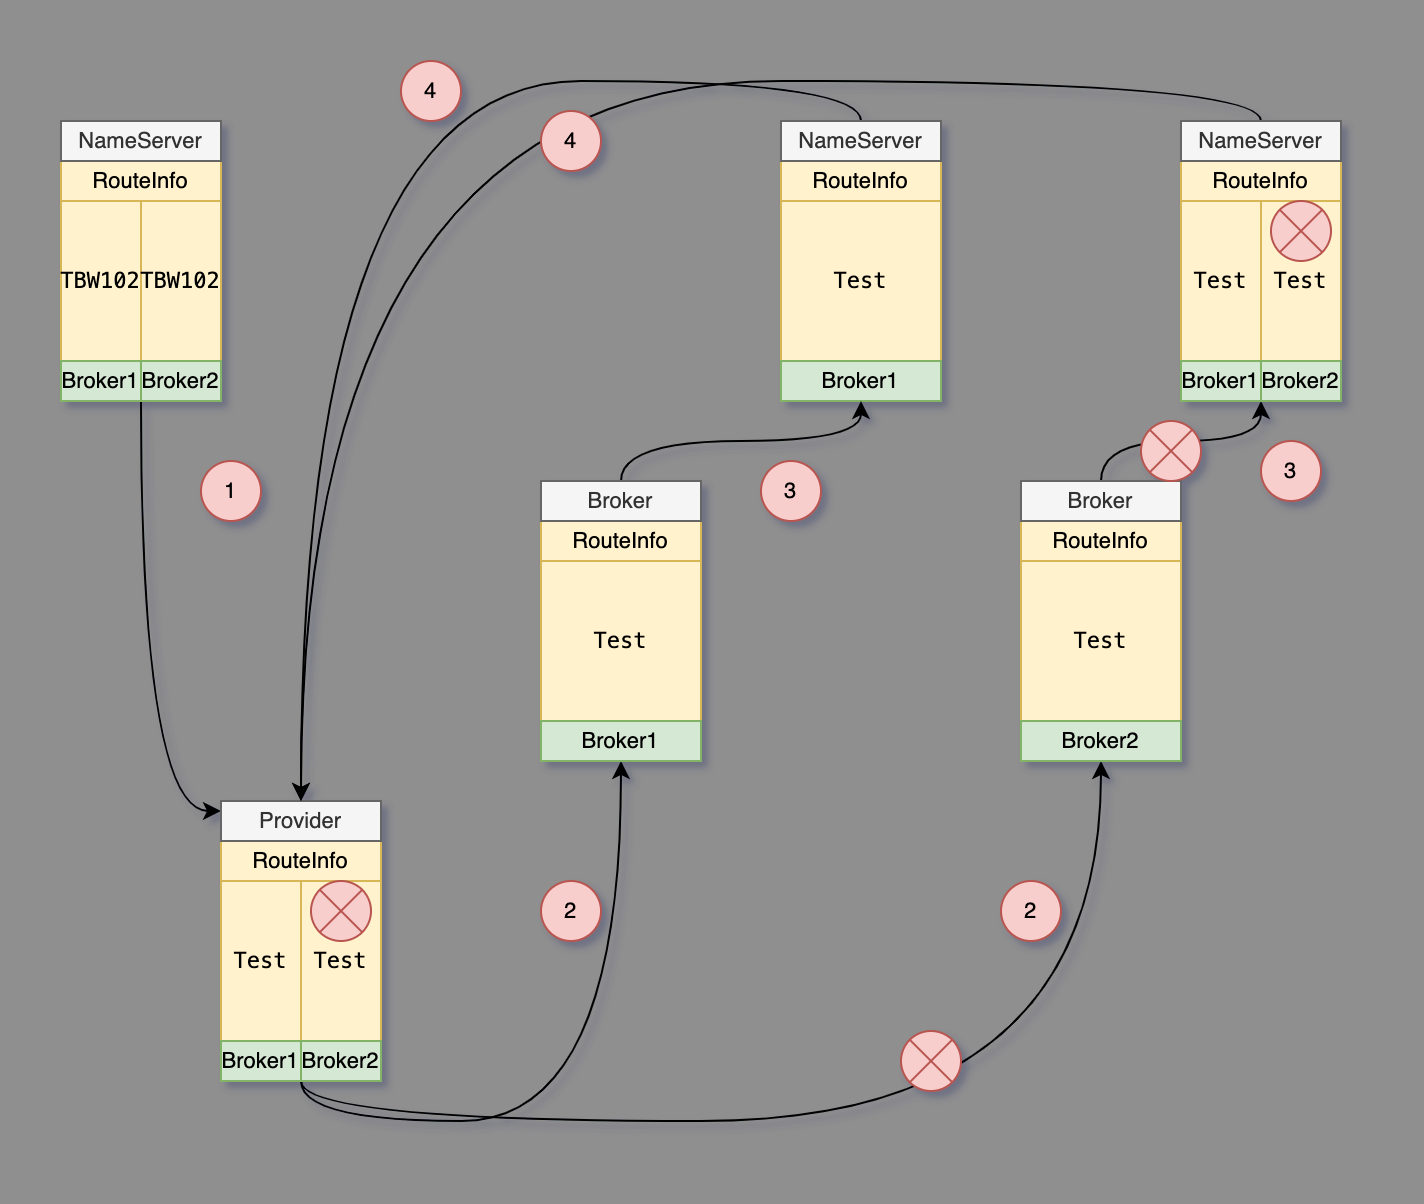
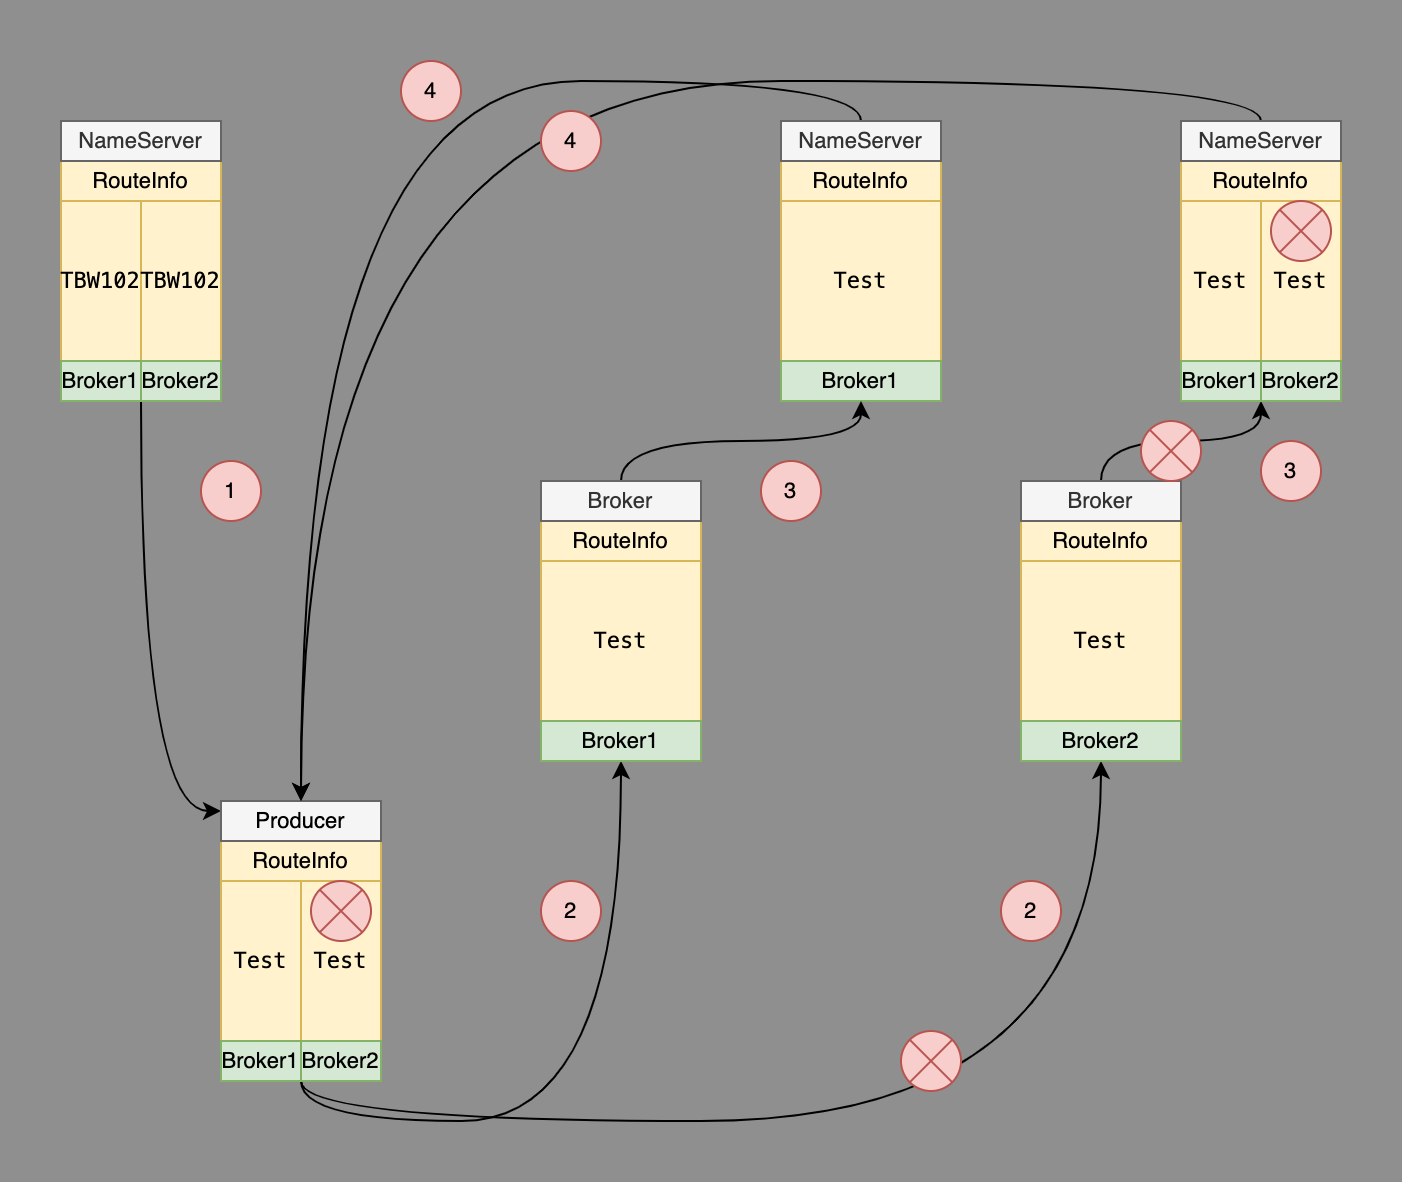
fix route info

diff --git a/rocketmq/rocketmq-producer.md b/rocketmq/rocketmq-producer.md
@@ -199,7 +199,7 @@ requestHeader.setQueueId(mq.getQueueId());
 
 ![rocketmq-consumer-create-topic.png](./images/rocketmq-consumer-create-topic.png)
 
-按照正常的流程是 1→2→3→4.Borker1和Broker2 都会把topic 信息同步NameServer中。这样Provider可以获取Broker1和Broker2二个的路由信息。这样发消息的时候，消息可以被发送到2个Broker中。
+按照正常的流程是 1→2→3→4.Borker1和Broker2 都会把topic 信息同步NameServer中。这样可以获取Broker1和Broker2二个的路由信息。这样发消息的时候，消息可以被发送到2个Broker中。
 
 但是。存在一种例外：由于某种原因，Broker2没有把路由信息同步到NamServer
 
@@ -208,10 +208,10 @@ requestHeader.setQueueId(mq.getQueueId());
 - 1 拉取 TBW102 路由信息，并复制路由信息
 - 2 发送消息到 Broker，Broker存储路由信息
 - 3 Broker 同步路由信息到 NameServer
-- 4 Provider 从NameServer 拉取路由信息，覆盖从TBW102复制的路由信息
+- 4  从NameServer 拉取路由信息，覆盖从TBW102复制的路由信息
 
-从上面的图可知，第4步骤会覆盖Provider内存中的路由信息，但是如果Broker2没有把自己的路由信息同步到NameServer到中。
+从上面的图可知，第4步骤会覆盖内存中的路由信息，但是如果Broker2没有把自己的路由信息同步到NameServer到中。
 
-那么Provider在拉取消息的时候，只能获取到Broker1中的路由信息，这也导致Provider只有Broker1的路由信息，消息也只能发送到Broker1中。
+那么在拉取消息的时候，只能获取到Broker1中的路由信息，这也导致只有Broker1的路由信息，消息也只能发送到Broker1中。
 
 如果Broker1服务宕机，那就导致服务不可用了。
